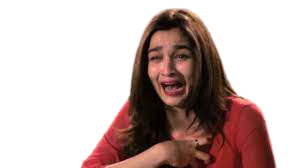
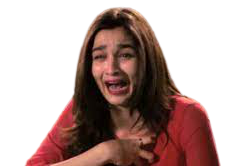
fix-resize the img

diff --git a/styles.css b/styles.css
@@ -13,15 +13,30 @@ body{
     margin: auto;
     width: 50vw;
 }
+header{
+    margin-top: 1rem;
+    border: 1px solid black;
+    background-color: gray;
+}
+h2{
+    margin:1rem;
+    border: 1px solid black;
+    background-color: #188228;
+
+}
 main{
     display: flex;
+    border: 1px solid black;
+    /* box-shadow: 5px 10px black; */
 }
 .container1{
     width: 50%;
-    padding: 0.5rem;
+    margin:0.5rem;
+
 }
 .container2{
     width: 50%;
+    padding: 0.2rem;
     text-align: center;
 
     
@@ -43,10 +58,12 @@ background-color: black;
 }
 /* output */
 #output{
-    padding-left: 1rem;
     font-weight: bold;
     font-size: 11px;
     word-wrap: break-word;
+    padding:0.3rem ;
+    border-radius: 0.3rem;
+    border: 1px solid black;
 }
 /* footer*/
 .list-non-bullet {
